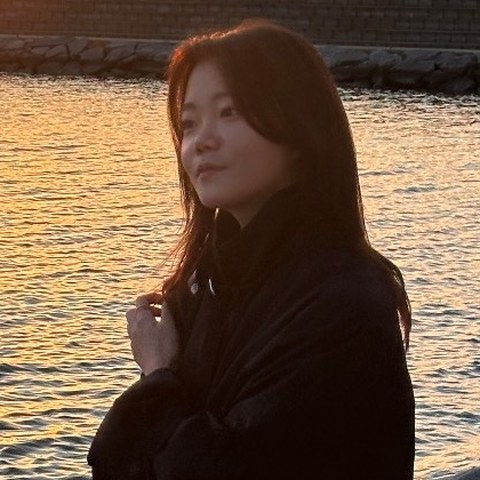
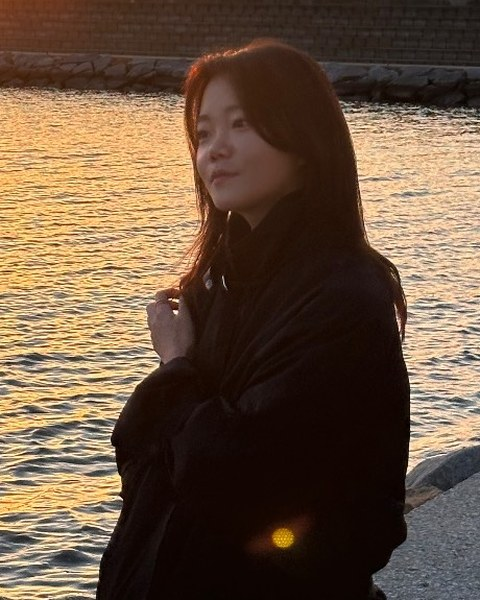
Use square-cornered 4:5 profile photo
Claude-Session: https://claude.ai/code/session_016rFRfoFxphm57F8BruQ4eb

diff --git a/css/site.css b/css/site.css
@@ -54,7 +54,7 @@ a:hover { text-decoration: underline; }
 .profile h1 .ko { font-size: 22px; font-weight: 500; color: var(--muted); margin-left: 6px; }
 .role { color: var(--muted); margin: 0 0 18px; font-weight: 500; }
 .profile p { margin: 0 0 12px; }
-.photo { width: 210px; height: 210px; object-fit: cover; border-radius: 12px; flex-shrink: 0; border: 1px solid var(--line); }
+.photo { width: 210px; height: 262px; object-fit: cover; border-radius: 0; flex-shrink: 0; border: 1px solid var(--line); }
 .links { display: flex; flex-wrap: wrap; gap: 8px; margin-top: 18px; }
 .links a {
   font-size: 14px; padding: 5px 12px; border-radius: 999px;
@@ -113,7 +113,7 @@ h2 {
   .topbar nav { gap: 14px; }
   .brand { display: none; }
   .profile { flex-direction: column-reverse; gap: 20px; padding-top: 28px; }
-  .photo { width: 140px; height: 140px; }
+  .photo { width: 150px; height: 188px; }
   .profile h1 { font-size: 28px; }
   .entry-head { flex-direction: column; gap: 2px; }
   .meta { text-align: left; white-space: normal; }
